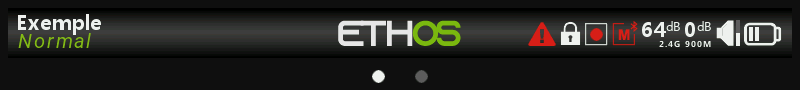
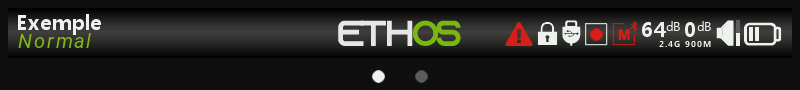
Ajout de l'icône USB dans la barre du haut

Changed region(s): [[0.625, 0.2222, 0.75, 0.5111]]

diff --git a/vues-principales.md b/vues-principales.md
@@ -4,13 +4,13 @@ Ethos permet à l'utilisateur une grande flexibilité dans l'affichage de diffé
 
 Les vues principales partagent normalement les barres supérieure et inférieure, mais d'autres options sont possibles, voire même configurables par l'utilisateur. Reportez vous à la section Configurer les écrans pour plus de détails sur la configuration des affichages et la programmation LUA.
 
-![Exemple de vue principale](.gitbook/assets/mainviews1.png)
+![Exemple de vue principale](.gitbook/assets/mainview.png)
 
 ## La barre supérieure
 
 La barre supérieure affiche le nom du modèle sur la gauche, ainsi que la phase de vol active si les phases de vol sont utilisées.
 
-![Barre supérieure](https://github.com/user-attachments/assets/ad0ca0d6-8fd5-4f75-8149-870fcbe58ef6)
+![Barre supérieure](.gitbook/assets/topbar.png)
 
 Sur la droite se trouvent des icônes pour :
 
@@ -36,6 +36,6 @@ Les détails relatifs à l'avertissement sont affichés dans la page Système / 
 
 ## La barre inférieure
 
-![Barre inférieure](https://github.com/user-attachments/assets/7984970d-4c06-44cd-aeb4-c4bb824e04e5)
+![Barre inférieure](.gitbook/assets/bottombar.png)
 
 La barre inférieure comporte quatre icones pour accéder aux fonctions suivantes, de gauche à droite : Ecran d'accueil du modèle, Configuration du modèle, Configurer les écrans du modèle et Configuration du système. L'heure système s'affiche à droite. Un appui sur l'heure permet d'accéder aux options de date et d'heure de la radio.
